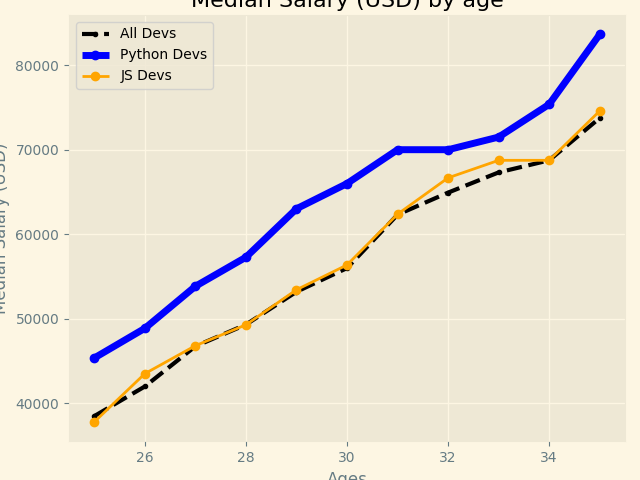
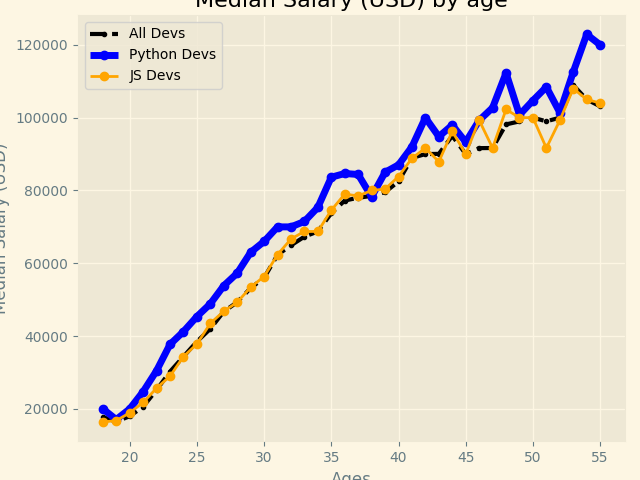
changed the x and y values

diff --git a/Matplotlib/main.py b/Matplotlib/main.py
@@ -3,16 +3,18 @@ from matplotlib import pyplot as plt
 #plt.style.available #shows all available styles
 plt.style.use("Solarize_Light2")
 
-ages_x = [25,26,27,28,29,30,31,32,33,34,35]
+# Ages 18 to 55
+ages_x = [18, 19, 20, 21, 22, 23, 24, 25, 26, 27, 28, 29, 30, 31, 32, 33, 34, 35,
+          36, 37, 38, 39, 40, 41, 42, 43, 44, 45, 46, 47, 48, 49, 50, 51, 52, 53, 54, 55]
 
-dev_y = [38496, 42000, 46752, 49320, 53200,
-         56000, 62316, 64928, 67317, 68748, 73752]
-py_dev_y = [45372, 48876, 53850, 57287, 63016,
-            65998, 70003, 70000, 71496, 75370, 83640]
+py_dev_y = [20046, 17100, 20000, 24744, 30500, 37732, 41247, 45372, 48876, 53850, 57287, 63016, 65998, 70003, 70000, 71496, 75370, 83640, 84666,
+            84392, 78254, 85000, 87038, 91991, 100000, 94796, 97962, 93302, 99240, 102736, 112285, 100771, 104708, 108423, 101407, 112542, 122870, 120000]
 
-# Median JavaScript Developer Salaries by Age
-js_dev_y = [37810, 43515, 46823, 49293, 53437,
-            56373, 62375, 66674, 68745, 68746, 74583]
+js_dev_y = [16446, 16791, 18942, 21780, 25704, 29000, 34372, 37810, 43515, 46823, 49293, 53437, 56373, 62375, 66674, 68745, 68746, 74583, 79000,
+            78508, 79996, 80403, 83820, 88833, 91660, 87892, 96243, 90000, 99313, 91660, 102264, 100000, 100000, 91660, 99240, 108000, 105000, 104000]
+
+dev_y = [17784, 16500, 18012, 20628, 25206, 30252, 34368, 38496, 42000, 46752, 49320, 53200, 56000, 62316, 64928, 67317, 68748, 73752, 77232,
+         78000, 78508, 79536, 82488, 88935, 90000, 90056, 95000, 90000, 91633, 91660, 98150, 98964, 100000, 98988, 100000, 108923, 105000, 103117]
 
 
 plt.plot(ages_x, dev_y,color="black" ,linestyle='--', marker='.', linewidth=3, label = 'All Devs')
